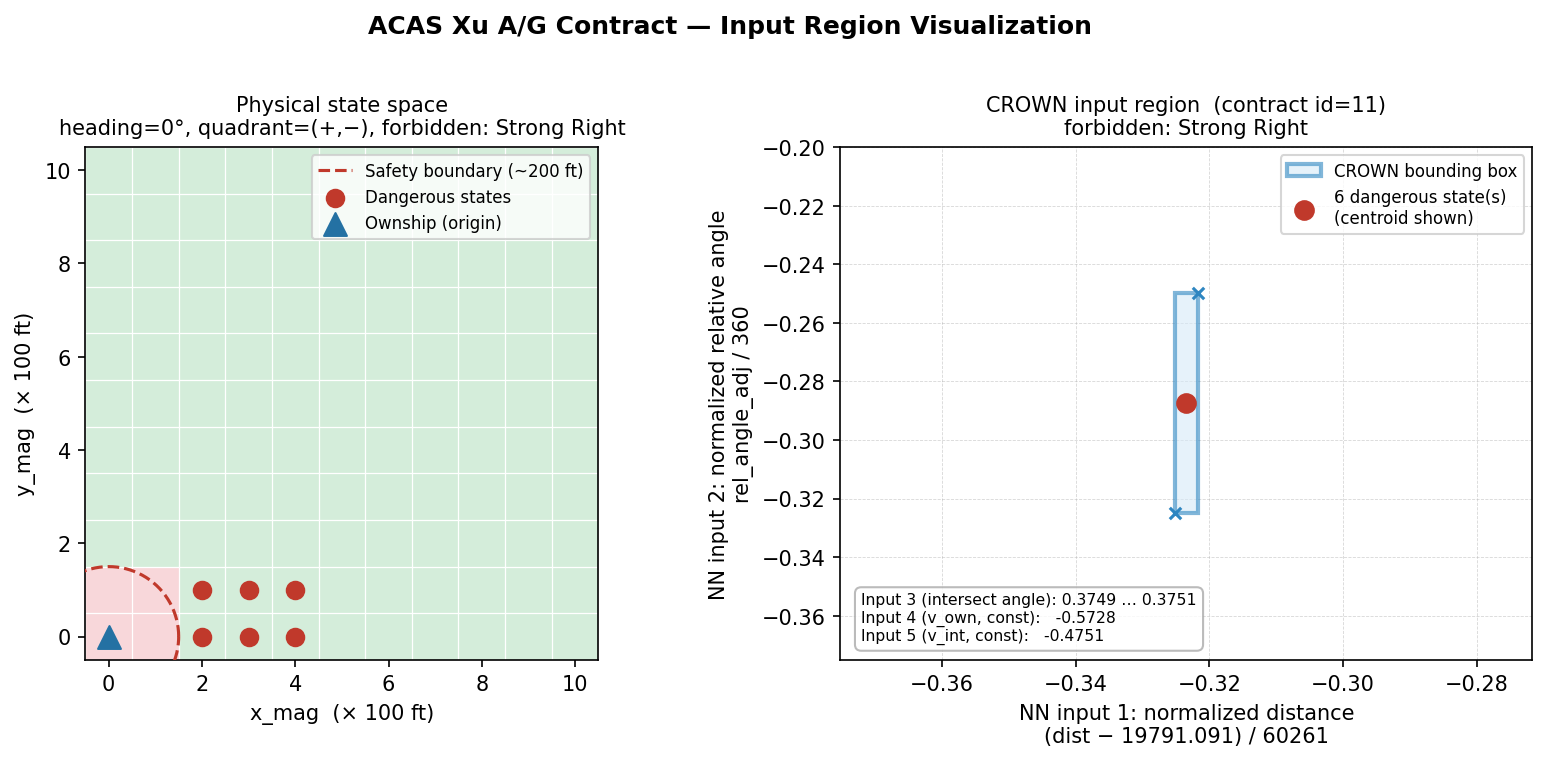
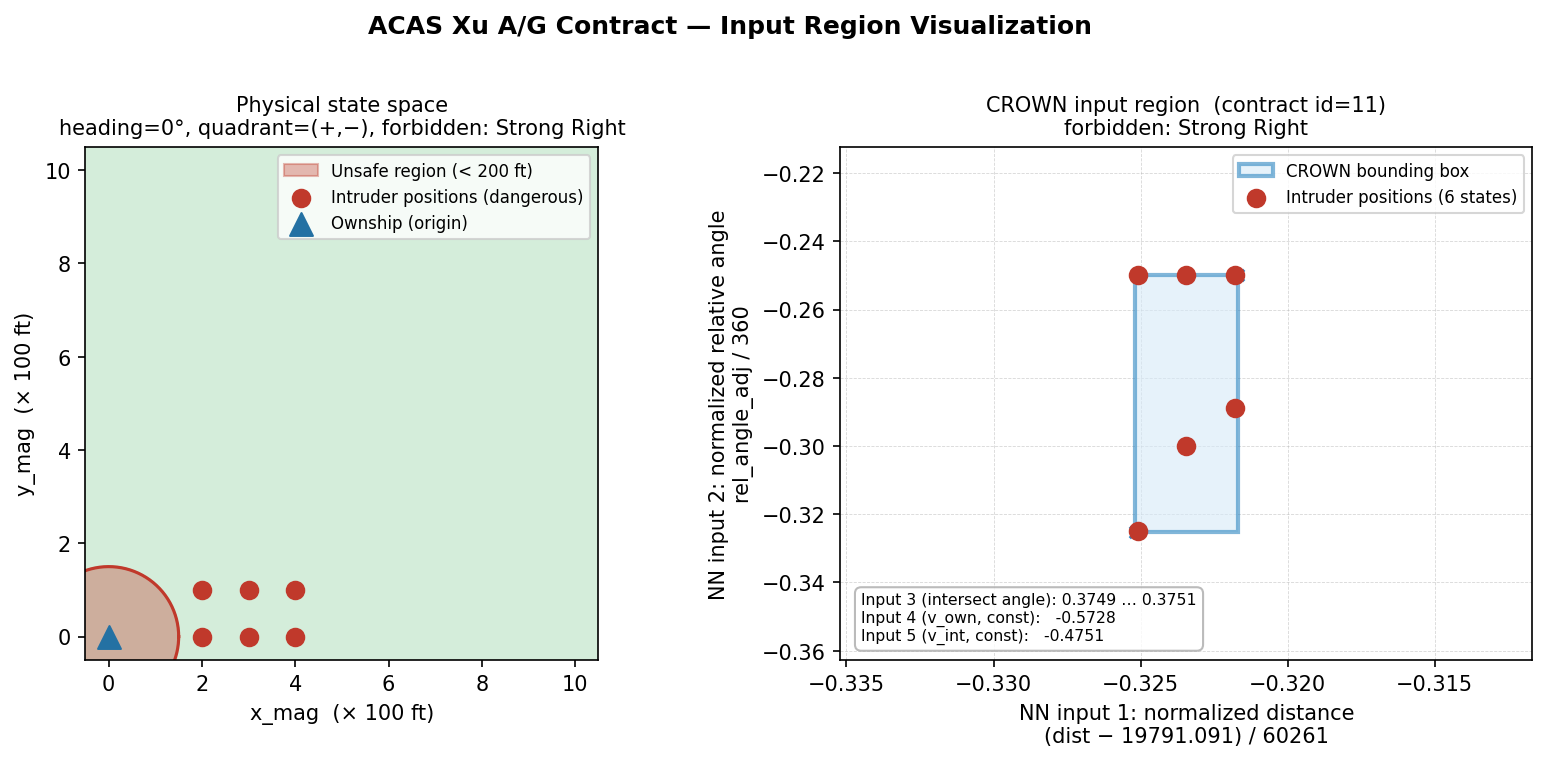
Feature ACAS-03: Modify ACAS Xu input region visualizations to make them more intuitive

diff --git a/REPRODUCIBILITY/2026_TBA/examples/AcasXu_closed_loop/figures/image_scripts/acas_input_region.py b/REPRODUCIBILITY/2026_TBA/examples/AcasXu_closed_loop/figures/image_scripts/acas_input_region.py
@@ -40,6 +40,8 @@ DEGREE_MULTIPLIER = 9             # degrees per heading step
 DISTANCE_MEAN  = 19791.091
 DISTANCE_RANGE = 60261.0
 
+HEADING_INT = 225   # fixed intruder heading (degrees)
+
 ADVISORY_LABELS = {
     "clear":        "Clear (CoC)",
     "weak_left":    "Weak Left",
@@ -47,6 +49,54 @@ ADVISORY_LABELS = {
     "strong_left":  "Strong Left",
     "strong_right": "Strong Right",
 }
+
+# ---------------------------------------------------------------------------
+# NN input computation (mirrors generate_acas_contracts.py)
+# ---------------------------------------------------------------------------
+
+def _compute_nn_input1(x_mag: int, y_mag: int) -> float:
+    """Normalized distance (NN input 1)."""
+    dist = round(math.sqrt(x_mag * x_mag + y_mag * y_mag)) * DISTANCE_MODIFIER
+    return (dist - DISTANCE_MEAN) / DISTANCE_RANGE
+
+
+def _compute_nn_input2(
+    x_mag: int, y_mag: int, x_sign: int, y_sign: int, heading_own_var: int
+) -> float:
+    """Normalized relative angle (NN input 2)."""
+    heading_own = heading_own_var * DEGREE_MULTIPLIER
+
+    # arctan_val: atan(y/x) if y_sign=1, atan(x/y) if y_sign=-1
+    if y_sign == 1:
+        av = 0 if x_mag == 0 else round(math.degrees(math.atan(y_mag / x_mag)))
+    else:
+        av = 0 if y_mag == 0 else round(math.degrees(math.atan(x_mag / y_mag)))
+
+    # Relative angle cases (matches DSL sequential case order)
+    x, y = x_mag * DISTANCE_MODIFIER, y_mag * DISTANCE_MODIFIER
+    if x_sign == 1 and y == 0:
+        rel = 270 - heading_own
+    elif x_sign == -1 and y == 0:
+        rel = 90 - heading_own
+    elif x == 0 and y_sign == 1:
+        rel = 360 - heading_own
+    elif x == 0 and y_sign == -1:
+        rel = 180 - heading_own
+    elif x_sign == 1 and y_sign == 1:
+        rel = (270 - heading_own) + av
+    elif x_sign == 1 and y_sign == -1:
+        rel = (180 - heading_own) + av
+    elif x_sign == -1 and y_sign == 1:
+        rel = (90 - heading_own) - av
+    else:  # x_sign == -1 and y_sign == -1
+        rel = (180 - heading_own) - av
+
+    # Normalize to [-180, 180]
+    mod = rel % 360
+    pos = mod if mod >= 0 else mod + 360
+    adj = pos - 360 if pos > 180 else pos
+    return adj / 360.0
+
 
 # ---------------------------------------------------------------------------
 # Data loading
@@ -73,22 +123,12 @@ def select_contract(contracts: list[dict], contract_id: int | None) -> dict:
     return contracts[0]  # fallback
 
 
-def compute_safe_cells() -> set[tuple[int, int]]:
-    """All (x_mag, y_mag) with distance >= SAFETY_THRESHOLD."""
-    safe = set()
-    for x in range(MAX_DIST_VAR + 1):
-        for y in range(MAX_DIST_VAR + 1):
-            dist = round(math.sqrt(x * x + y * y)) * DISTANCE_MODIFIER
-            if dist >= SAFETY_THRESHOLD:
-                safe.add((x, y))
-    return safe
-
 
 # ---------------------------------------------------------------------------
 # Plotting
 # ---------------------------------------------------------------------------
 
-def plot_physical_space(ax: plt.Axes, contract: dict, safe_cells: set) -> None:
+def plot_physical_space(ax: plt.Axes, contract: dict) -> None:
     """Left panel: (x_mag, y_mag) physical state space."""
     x_sign = contract["x_sign"]
     y_sign = contract["y_sign"]
@@ -97,37 +137,28 @@ def plot_physical_space(ax: plt.Axes, contract: dict, safe_cells: set) -> None:
     advisory     = contract["forbidden_advisory"]
     dangerous_xy = contract["dangerous_xy"]   # list of [x_mag, y_mag]
 
-    # Grid background: green = safe, salmon = already unsafe
-    for xv in range(MAX_DIST_VAR + 1):
-        for yv in range(MAX_DIST_VAR + 1):
-            color = "#d4edda" if (xv, yv) in safe_cells else "#f8d7da"
-            rect = mpatches.FancyBboxPatch(
-                (xv - 0.5, yv - 0.5), 1.0, 1.0,
-                boxstyle="square,pad=0",
-                linewidth=0,
-                facecolor=color,
-                zorder=0,
-            )
-            ax.add_patch(rect)
+    # Green background for the full grid
+    ax.set_facecolor("#d4edda")
 
-    # Grid lines
-    for i in range(MAX_DIST_VAR + 2):
-        ax.axhline(i - 0.5, color="white", linewidth=0.6, zorder=1)
-        ax.axvline(i - 0.5, color="white", linewidth=0.6, zorder=1)
-
-    # Safety boundary circle (radius where round(r)*100 = 200 → r ≈ 1.5 in grid units)
+    # Solid red filled circle = unsafe region (distance < 200 ft)
+    # Radius 1.5 grid units is the exact discretization boundary:
+    # round(sqrt(x²+y²)) * 100 < 200 iff Euclidean distance < 1.5
     theta = np.linspace(0, 2 * math.pi, 300)
-    radius = 1.5  # 150 ft / 100 ft-per-unit = 1.5 grid units
+    radius = 1.5
+    ax.fill(
+        radius * np.cos(theta), radius * np.sin(theta),
+        color="#c0392b", alpha=0.35, zorder=1,
+        label=f"Unsafe region (< {SAFETY_THRESHOLD} ft)",
+    )
     ax.plot(
         radius * np.cos(theta), radius * np.sin(theta),
-        color="#c0392b", linewidth=1.5, linestyle="--", zorder=3,
-        label=f"Safety boundary (~{SAFETY_THRESHOLD} ft)",
+        color="#c0392b", linewidth=1.5, zorder=2,
     )
 
-    # Dangerous state dots
+    # Dangerous state dots (intruder positions)
     dx = [s[0] for s in dangerous_xy]
     dy = [s[1] for s in dangerous_xy]
-    ax.scatter(dx, dy, s=70, color="#c0392b", zorder=5, label="Dangerous states")
+    ax.scatter(dx, dy, s=70, color="#c0392b", zorder=5, label="Intruder positions (dangerous)")
 
     # Ownship marker at origin (relative coordinate frame)
     ax.scatter(0, 0, s=120, color="#2471a3", marker="^", zorder=6, label="Ownship (origin)")
@@ -155,13 +186,18 @@ def plot_input_space(ax: plt.Axes, contract: dict) -> None:
     dangerous_xy = contract["dangerous_xy"]
     advisory     = contract["forbidden_advisory"]
 
-    # We need to recompute NN inputs for each dangerous state.
-    # They're not stored in the spec per-state, but we can back them out
-    # from the bounding box extremes plus dots.
-    # Instead, the contract has nn_input_lower/upper — we have the bounding box.
-    # For the dots, we use the stored dangerous_xy and note the box is tight.
-    # We plot the box rectangle and annotate the dangerous states as a cluster.
-    # (exact per-state normalized inputs would require re-running compute_nn_inputs)
+    x_sign      = contract["x_sign"]
+    y_sign      = contract["y_sign"]
+    heading_var = contract["heading_own_var"]
+
+    # Compute exact NN inputs 1 & 2 for each dangerous state
+    pts = [
+        (
+            _compute_nn_input1(xm, ym),
+            _compute_nn_input2(xm, ym, x_sign, y_sign, heading_var),
+        )
+        for xm, ym in dangerous_xy
+    ]
 
     # Bounding box rectangle
     box_x = lower[0]
@@ -185,14 +221,11 @@ def plot_input_space(ax: plt.Axes, contract: dict) -> None:
     ax.scatter([lower[0], upper[0]], [lower[1], upper[1]], s=30, color="#2e86c1",
                marker="x", zorder=4, linewidths=1.5)
 
-    # Dangerous state cluster — shown schematically since exact per-state normalized
-    # inputs are not stored in the spec (only bounding box is stored).
-    # Place a red dot at the centroid of the box to indicate coverage.
-    cx = (lower[0] + upper[0]) / 2
-    cy = (lower[1] + upper[1]) / 2
+    # Intruder positions: exact NN inputs computed per dangerous state
     ax.scatter(
-        [cx], [cy], s=80, color="#c0392b", zorder=5,
-        label=f"{contract['n_states_covered']} dangerous state(s)\n(centroid shown)",
+        [p[0] for p in pts], [p[1] for p in pts],
+        s=70, color="#c0392b", zorder=5,
+        label=f"Intruder positions ({contract['n_states_covered']} states)",
     )
 
     # Constant inputs annotation
@@ -209,11 +242,12 @@ def plot_input_space(ax: plt.Axes, contract: dict) -> None:
         bbox=dict(boxstyle="round,pad=0.4", facecolor="white", alpha=0.8, edgecolor="#aaaaaa"),
     )
 
-    # Axis limits with margin
-    margin_x = max(0.05, box_w * 0.5)
-    margin_y = max(0.05, box_h * 0.5)
-    ax.set_xlim(lower[0] - margin_x, upper[0] + margin_x)
-    ax.set_ylim(lower[1] - margin_y, upper[1] + margin_y)
+    # Independent proportional padding per axis so the box occupies ~50% of
+    # each axis regardless of its aspect ratio. Small floor handles near-zero spans.
+    pad_x = max(box_w * 0.5, 0.01)
+    pad_y = max(box_h * 0.5, 0.01)
+    ax.set_xlim(lower[0] - pad_x, upper[0] + pad_x)
+    ax.set_ylim(lower[1] - pad_y, upper[1] + pad_y)
 
     ax.set_xlabel("NN input 1: normalized distance\n(dist − 19791.091) / 60261", fontsize=10)
     ax.set_ylabel("NN input 2: normalized relative angle\nrel_angle_adj / 360", fontsize=10)
@@ -256,7 +290,6 @@ def main() -> None:
     print(f"Loading contracts from: {specs_path}")
     contracts = load_contracts(specs_path)
     contract  = select_contract(contracts, args.contract_id)
-    safe_cells = compute_safe_cells()
 
     print(f"Selected contract id={contract['id']}:")
     print(f"  heading_own_var={contract['heading_own_var']}  "
@@ -269,7 +302,7 @@ def main() -> None:
 
     fig, (ax_left, ax_right) = plt.subplots(1, 2, figsize=(11, 5))
 
-    plot_physical_space(ax_left, contract, safe_cells)
+    plot_physical_space(ax_left, contract)
     plot_input_space(ax_right, contract)
 
     fig.suptitle(
